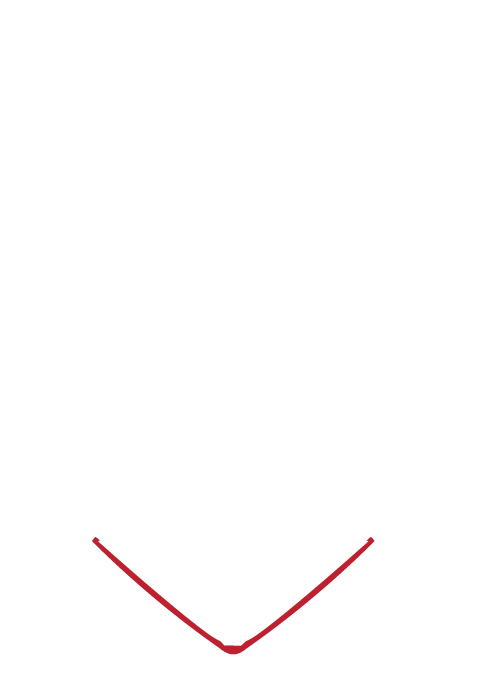
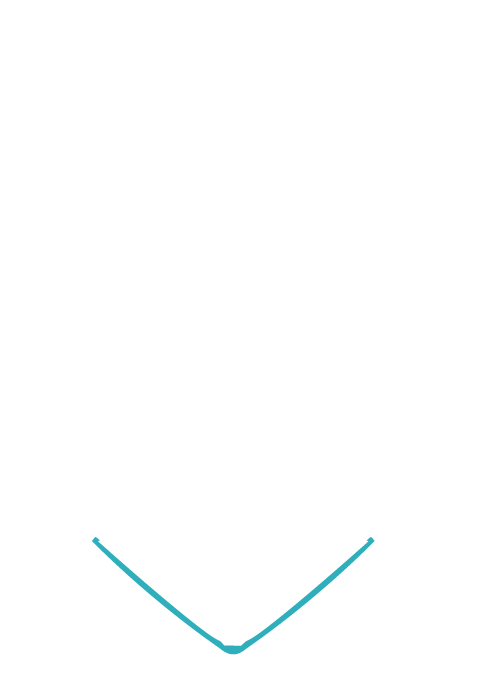
Added the backgrounds of cards that keno designed, added gradients and corner radius just like keno wanted, because he made my world WHITE

diff --git a/UtMobileApp/Views/MainPageStudent.xaml b/UtMobileApp/Views/MainPageStudent.xaml
@@ -6,6 +6,7 @@
              xmlns:navigationdrawer="clr-namespace:Syncfusion.SfNavigationDrawer.XForms;assembly=Syncfusion.SfNavigationDrawer.XForms"
              xmlns:buttons="clr-namespace:Syncfusion.XForms.Buttons;assembly=Syncfusion.Buttons.XForms"
              xmlns:border="clr-namespace:Syncfusion.XForms.Border;assembly=Syncfusion.Core.XForms"
+             xmlns:gradient="clr-namespace:Syncfusion.XForms.Graphics;assembly=Syncfusion.Core.XForms"
              mc:Ignorable="d"
              x:Class="UtMobileApp.Views.MainPageStudent"
              BackgroundColor="White">
@@ -131,9 +132,18 @@
                     <border:SfBorder AbsoluteLayout.LayoutBounds="0, 0, 1, 0.55"
                                      AbsoluteLayout.LayoutFlags="All"
                                      CornerRadius="0, 0, 150, 0" 
-                                     BorderWidth="0"
-                                     BackgroundColor="#D35656">
+                                     BorderWidth="0">
                         <AbsoluteLayout>
+                            <gradient:SfGradientView>
+                                <gradient:SfGradientView.BackgroundBrush>
+                                    <gradient:SfLinearGradientBrush>
+                                        <gradient:SfLinearGradientBrush.GradientStops>
+                                            <gradient:SfGradientStop Color="#CB356B" Offset="0.0" />
+                                            <gradient:SfGradientStop Color="#BD3F32" Offset="1.0" />
+                                        </gradient:SfLinearGradientBrush.GradientStops>
+                                    </gradient:SfLinearGradientBrush>
+                                </gradient:SfGradientView.BackgroundBrush>
+                            </gradient:SfGradientView>
                             <!-- Nav toggle -->
                             <buttons:SfButton x:Name="NavToggle" 
                                               ShowIcon="True" 
@@ -186,50 +196,50 @@
                                                   CornerRadius="20" 
                                                   WidthRequest="200"
                                                   HeightRequest="300"
-                                                  HorizontalTextAlignment="End"
-                                                  VerticalTextAlignment="End"
+                                                  HorizontalTextAlignment="Center"
+                                                  VerticalTextAlignment="Center"
                                                   Padding="20"
                                                   FontSize="24"
                                                   TranslationX="600"
                                                   Scale="0.95"
-                                                  BackgroundColor="#096B92"
+                                                  BackgroundImage="lectures.png"
                                                   Clicked="BtnLectures_Clicked" />
                                 <buttons:SfButton x:Name="BtnMidterms"
                                                   Text="Midterms"  
                                                   CornerRadius="20" 
                                                   WidthRequest="200"
                                                   HeightRequest="300"
-                                                  HorizontalTextAlignment="End"
-                                                  VerticalTextAlignment="End"
+                                                  HorizontalTextAlignment="Center"
+                                                  VerticalTextAlignment="Center"
                                                   Padding="20"
                                                   FontSize="24"
                                                   TranslationX="600"
                                                   Scale="0.95"
-                                                  BackgroundColor="#F6B31F"/>
+                                                  BackgroundImage="midterms.png"/>
                                 <buttons:SfButton x:Name="BtnExams"
                                                   Text="Exams"  
                                                   CornerRadius="20" 
                                                   WidthRequest="200"
                                                   HeightRequest="300"
-                                                  HorizontalTextAlignment="End"
-                                                  VerticalTextAlignment="End"
+                                                  HorizontalTextAlignment="Center"
+                                                  VerticalTextAlignment="Center"
                                                   Padding="20"
                                                   FontSize="24"
                                                   TranslationX="600"
                                                   Scale="0.95"
-                                                  BackgroundColor="#78C7A7"/>
+                                                  BackgroundImage="exams.png"/>
                                 <buttons:SfButton x:Name="BtnConsultations"
                                                   Text="Consultations"  
                                                   CornerRadius="20" 
                                                   WidthRequest="200"
                                                   HeightRequest="300"
-                                                  HorizontalTextAlignment="End"
-                                                  VerticalTextAlignment="End"
+                                                  HorizontalTextAlignment="Center"
+                                                  VerticalTextAlignment="Center"
                                                   Padding="20"
                                                   FontSize="24"
                                                   TranslationX="600"
                                                   Scale="0.95"
-                                                  BackgroundColor="#83C5E7"/>
+                                                  BackgroundImage="consultations.png"/>
                             </StackLayout>
                         </ScrollView>
                     </StackLayout>

diff --git a/UtMobileApp/Views/Schedule.xaml b/UtMobileApp/Views/Schedule.xaml
@@ -7,11 +7,22 @@
              xmlns:buttons="clr-namespace:Syncfusion.XForms.Buttons;assembly=Syncfusion.Buttons.XForms"
              xmlns:busyindicator="clr-namespace:Syncfusion.SfBusyIndicator.XForms;assembly=Syncfusion.SfBusyIndicator.XForms"
              xmlns:border="clr-namespace:Syncfusion.XForms.Border;assembly=Syncfusion.Core.XForms"
+             xmlns:gradient="clr-namespace:Syncfusion.XForms.Graphics;assembly=Syncfusion.Core.XForms"
              mc:Ignorable="d"
              x:Class="UtMobileApp.Views.Schedule"
-             BackgroundColor="#D35656">
+             BackgroundColor="Transparent">
     <ContentPage.Content>
         <AbsoluteLayout>
+            <gradient:SfGradientView>
+                <gradient:SfGradientView.BackgroundBrush>
+                    <gradient:SfLinearGradientBrush>
+                        <gradient:SfLinearGradientBrush.GradientStops>
+                            <gradient:SfGradientStop Color="#7F4782" Offset="0.0" />
+                            <gradient:SfGradientStop Color="#7445A7" Offset="1.0" />
+                        </gradient:SfLinearGradientBrush.GradientStops>
+                    </gradient:SfLinearGradientBrush>
+                </gradient:SfGradientView.BackgroundBrush>
+            </gradient:SfGradientView>
             <!-- HEADER -->
             <StackLayout Orientation="Horizontal"
                          HorizontalOptions="FillAndExpand"

diff --git a/UtMobileApp/Views/Schedule.xaml.cs b/UtMobileApp/Views/Schedule.xaml.cs
@@ -86,27 +86,27 @@ namespace UtMobileApp.Views
             switch (DateTime.Now.DayOfWeek.ToString())
             {
                 case "Monday":
-                    btn_monday.TextColor = Color.FromHex("#07689F");
+                    btn_monday.TextColor = Color.FromHex("#101010");
                     btn_monday.FontAttributes = FontAttributes.Bold;
                     break;
                 case "Tuesday":
-                    btn_tuesday.TextColor = Color.FromHex("#07689F");
+                    btn_tuesday.TextColor = Color.FromHex("#101010");
                     btn_tuesday.FontAttributes = FontAttributes.Bold;
                     break;
                 case "Wednesday":
-                    btn_wednesday.TextColor = Color.FromHex("#07689F");
+                    btn_wednesday.TextColor = Color.FromHex("#101010");
                     btn_wednesday.FontAttributes = FontAttributes.Bold;
                     break;
                 case "Thursday":
-                    btn_thursday.TextColor = Color.FromHex("#07689F");
+                    btn_thursday.TextColor = Color.FromHex("#101010");
                     btn_thursday.FontAttributes = FontAttributes.Bold;
                     break;
                 case "Friday":
-                    btn_friday.TextColor = Color.FromHex("#07689F");
+                    btn_friday.TextColor = Color.FromHex("#101010");
                     btn_friday.FontAttributes = FontAttributes.Bold;
                     break;
                 case "Saturday":
-                    btn_saturday.TextColor = Color.FromHex("#07689F");
+                    btn_saturday.TextColor = Color.FromHex("#101010");
                     btn_saturday.FontAttributes = FontAttributes.Bold;
                     break;
                 default:
@@ -147,7 +147,7 @@ namespace UtMobileApp.Views
             btn_saturday.TextColor = Color.FromHex("#8E97A6");
             btn_saturday.FontAttributes = FontAttributes.None;
 
-            clickedBtn.TextColor = Color.FromHex("#07689F");
+            clickedBtn.TextColor = Color.FromHex("#101010");
             clickedBtn.FontAttributes = FontAttributes.Bold;
         }
 

diff --git a/UtMobileApp/Extensions/DateExtensions.cs b/UtMobileApp/Extensions/DateExtensions.cs
@@ -54,8 +54,8 @@ namespace UtMobileApp.Extensions
 
             if (scheduleList[index].LectureOrExercise != null)
             {
-                if (scheduleList[index].LectureOrExercise.t == "L") color = Color.FromHex("#E67C73"); // #FFB5AC
-                else color = Color.FromHex("#7986CB"); // #A2D5F2
+                if (scheduleList[index].LectureOrExercise.t == "L") color = Color.FromHex("#F28883"); // #FFB5AC
+                else color = Color.FromHex("#B9A6E0"); // #A2D5F2
             }
             else
             {